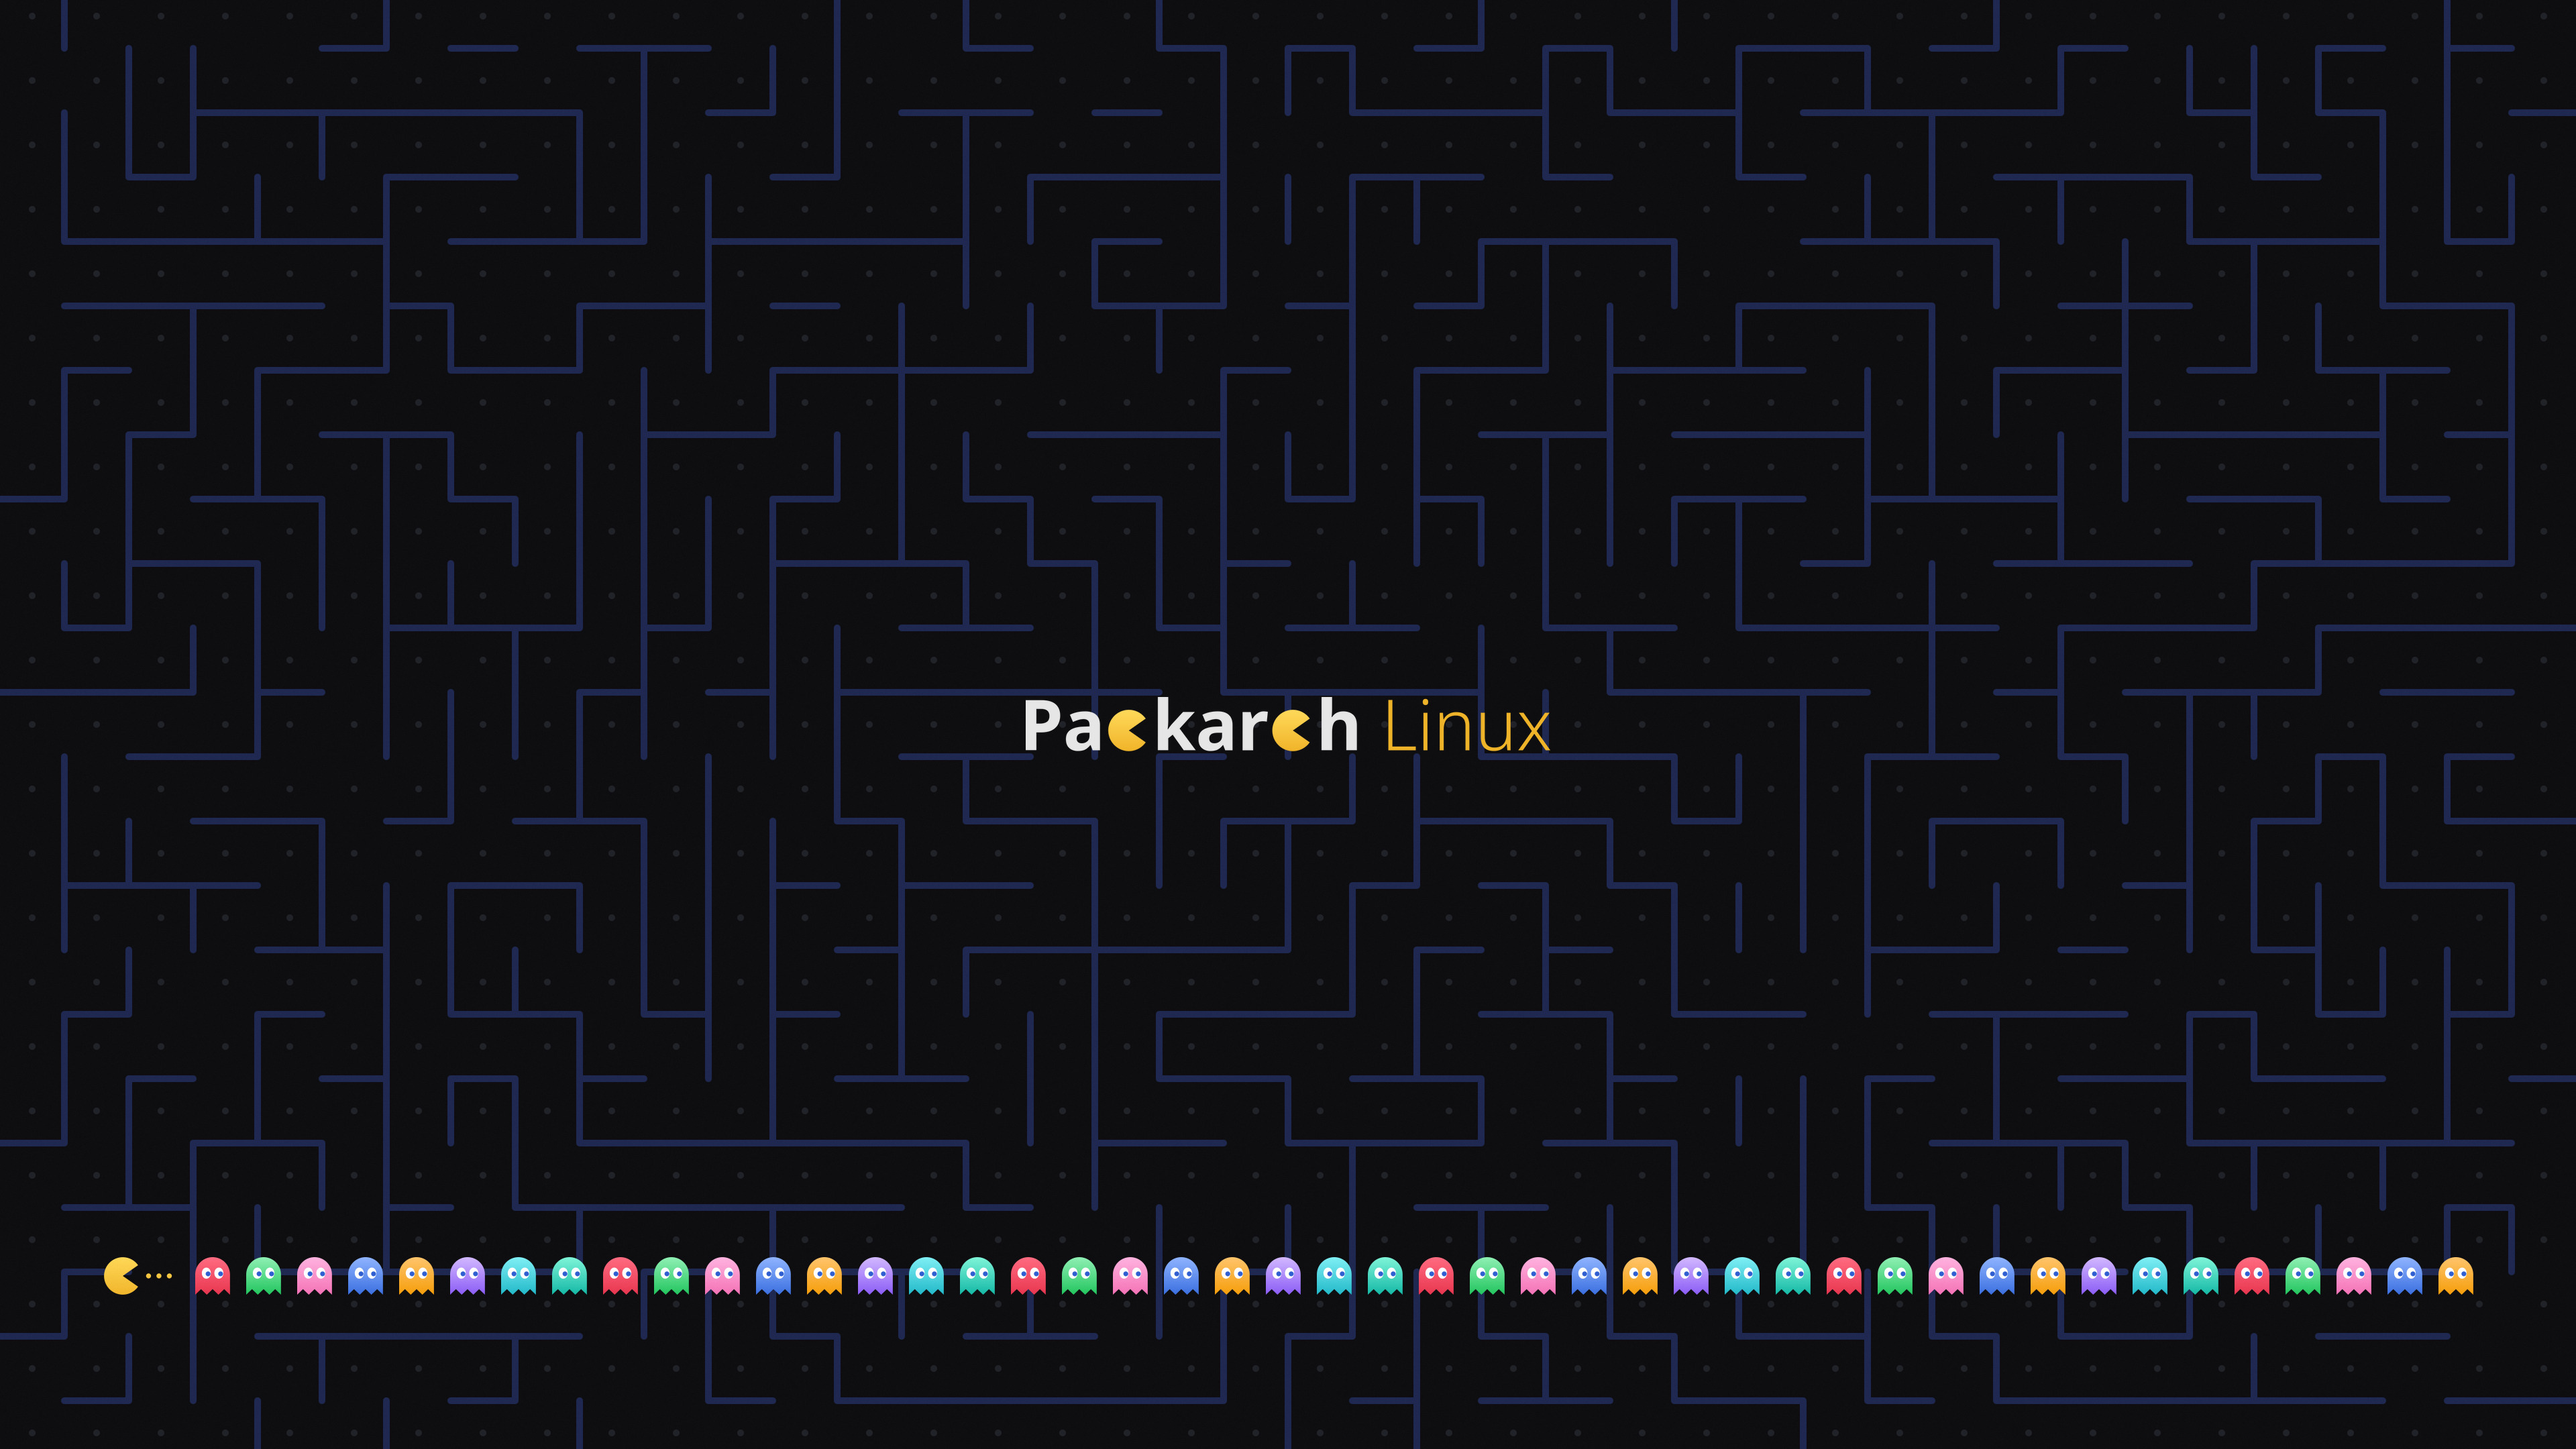
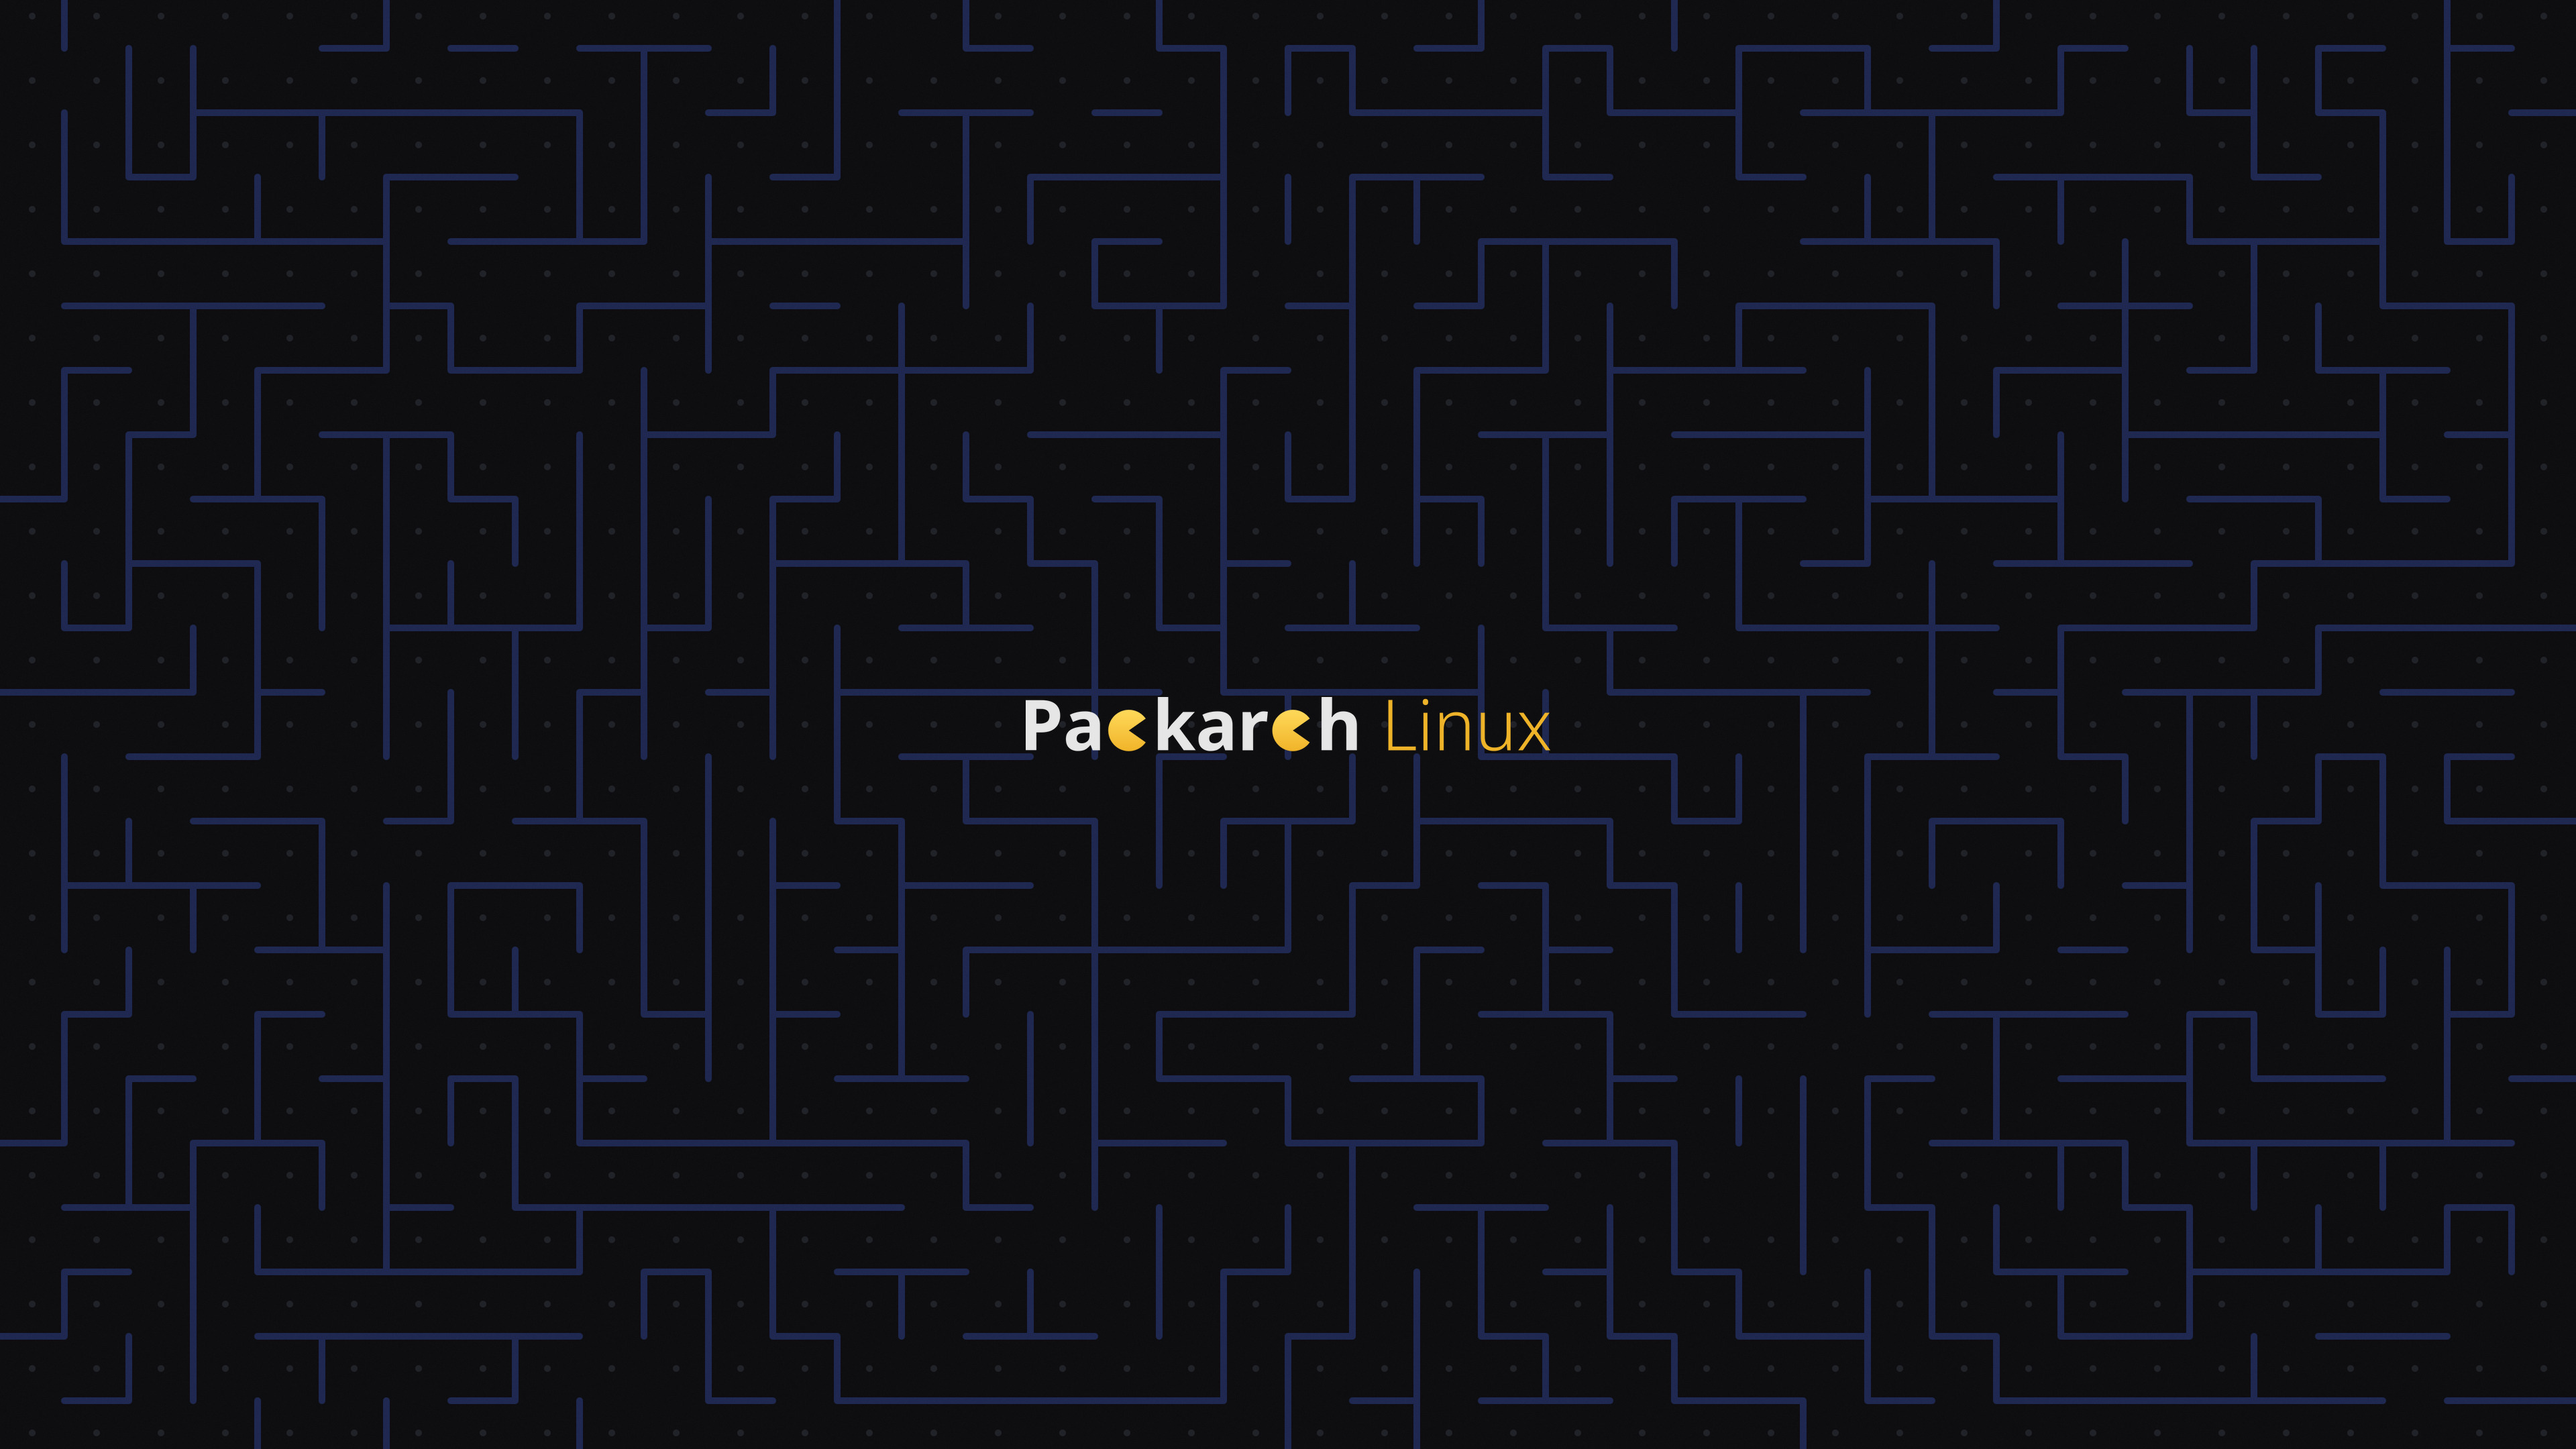
Marque : fond du bureau au labyrinthe sans la ligne de fantômes

Changed region(s): [[0.0312, 0.8685, 0.9688, 0.8995]]

diff --git a/branding/README.md b/branding/README.md
@@ -7,7 +7,7 @@ chaque fois). Images en 3840 × 2160.
 | Fichier | Contenu |
 |---|---|
 | `fonds/packarch-default.jpg` | fond du thème packarch (bureau) et de LightDM : fond `#0e0e11`, trame de pastilles, grain fin, grand fantôme à peine plus sombre derrière « Pa🟡kar🟡h Linux » |
-| `fonds/packarch-labyrinthe.jpg` | variante pour le bureau : labyrinthe entier (sans fondu, 70 %), « Pa🟡kar🟡h Linux » au centre, ligne de fantômes en bas |
+| `fonds/packarch-labyrinthe.jpg` | variante pour le bureau : labyrinthe entier (sans fondu, 70 %), « Pa🟡kar🟡h Linux » au centre, sans la ligne de fantômes |
 | `sddm/packarch/` | thème SDDM (prototype, Qt 6) : `Main.qml`, `theme.conf`, `metadata.desktop` |
 | `sddm/packarch/background.jpg` | son fond : labyrinthe estompé vers le centre, « Pa🟡kar🟡h Linux », ligne d'un pacman et de 45 fantômes de 8 couleurs en bas |
 | `sddm/packarch/background-sans-fantomes.jpg` | le même sans la ligne du bas (`background=` de `theme.conf`) |
